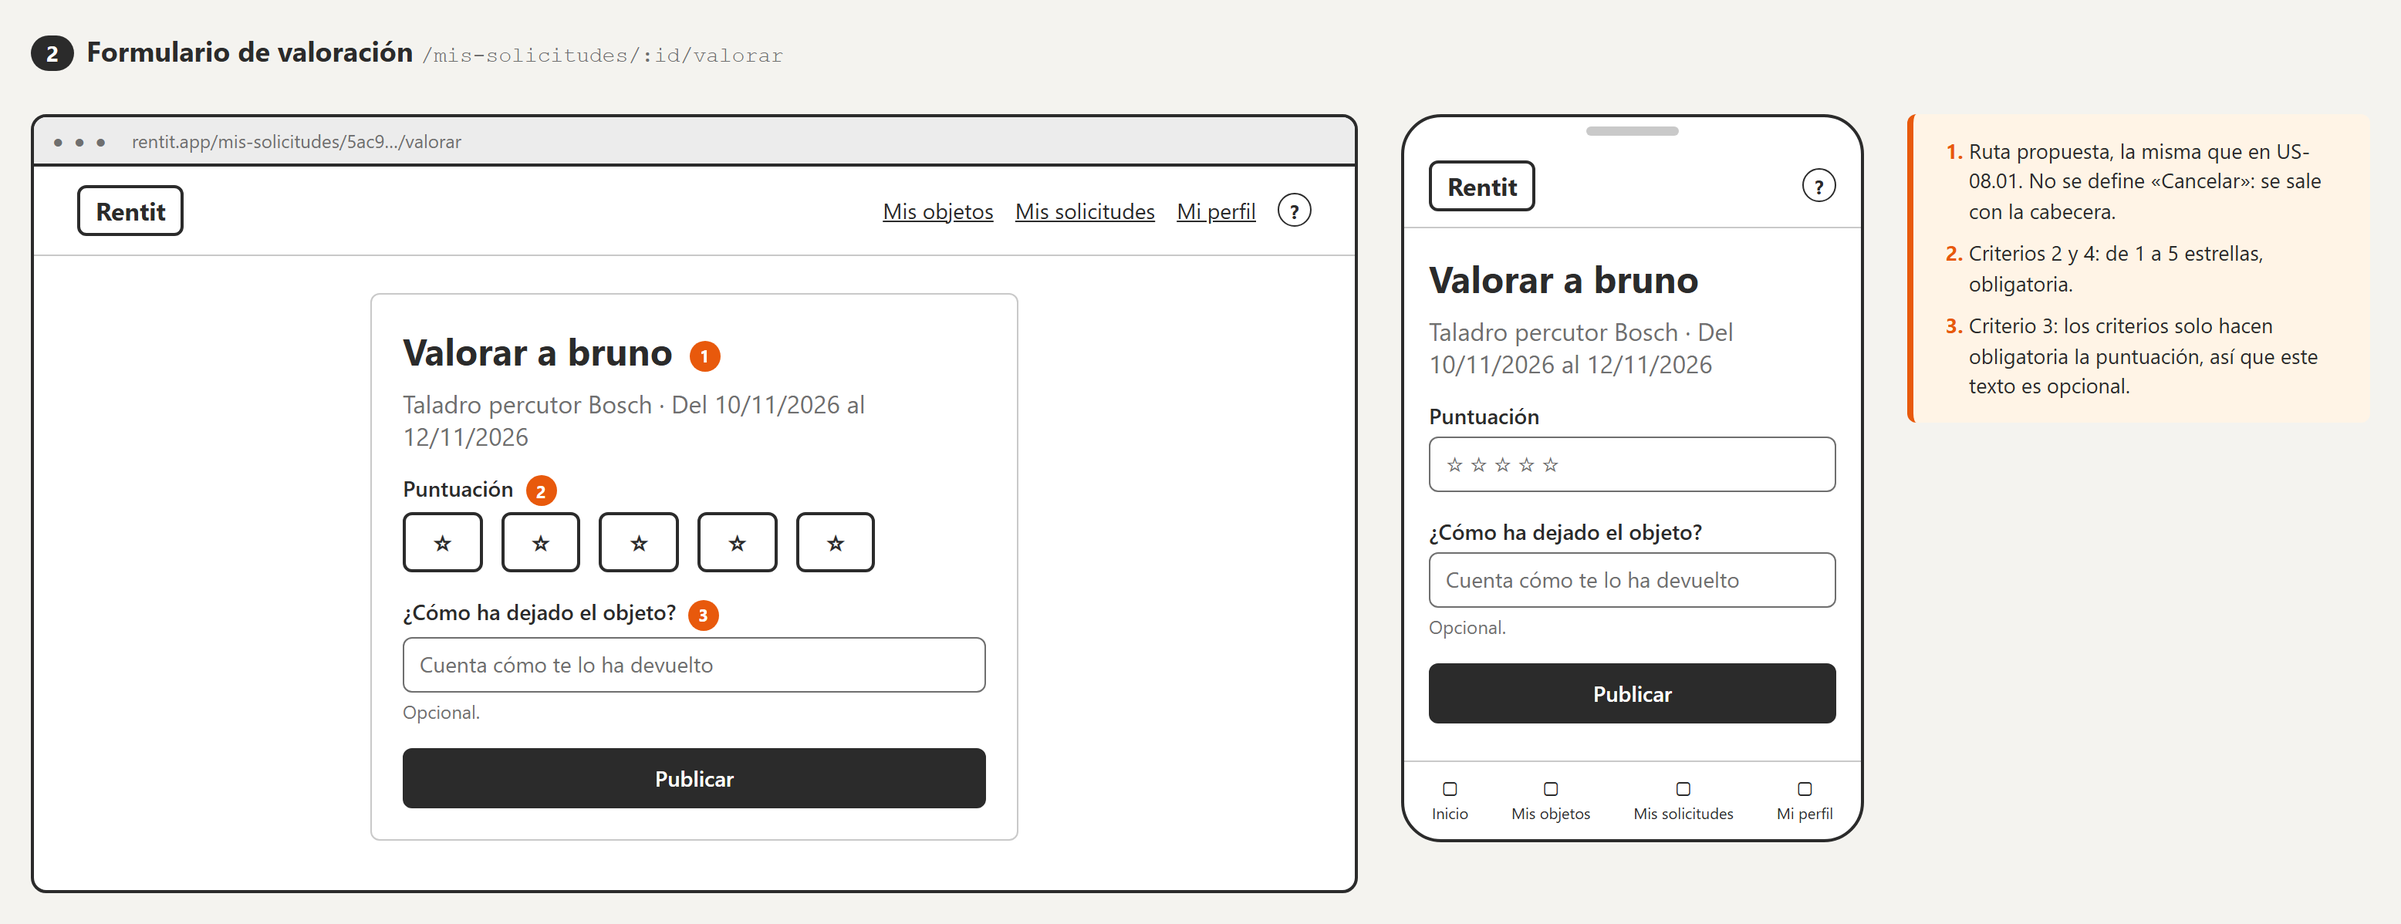
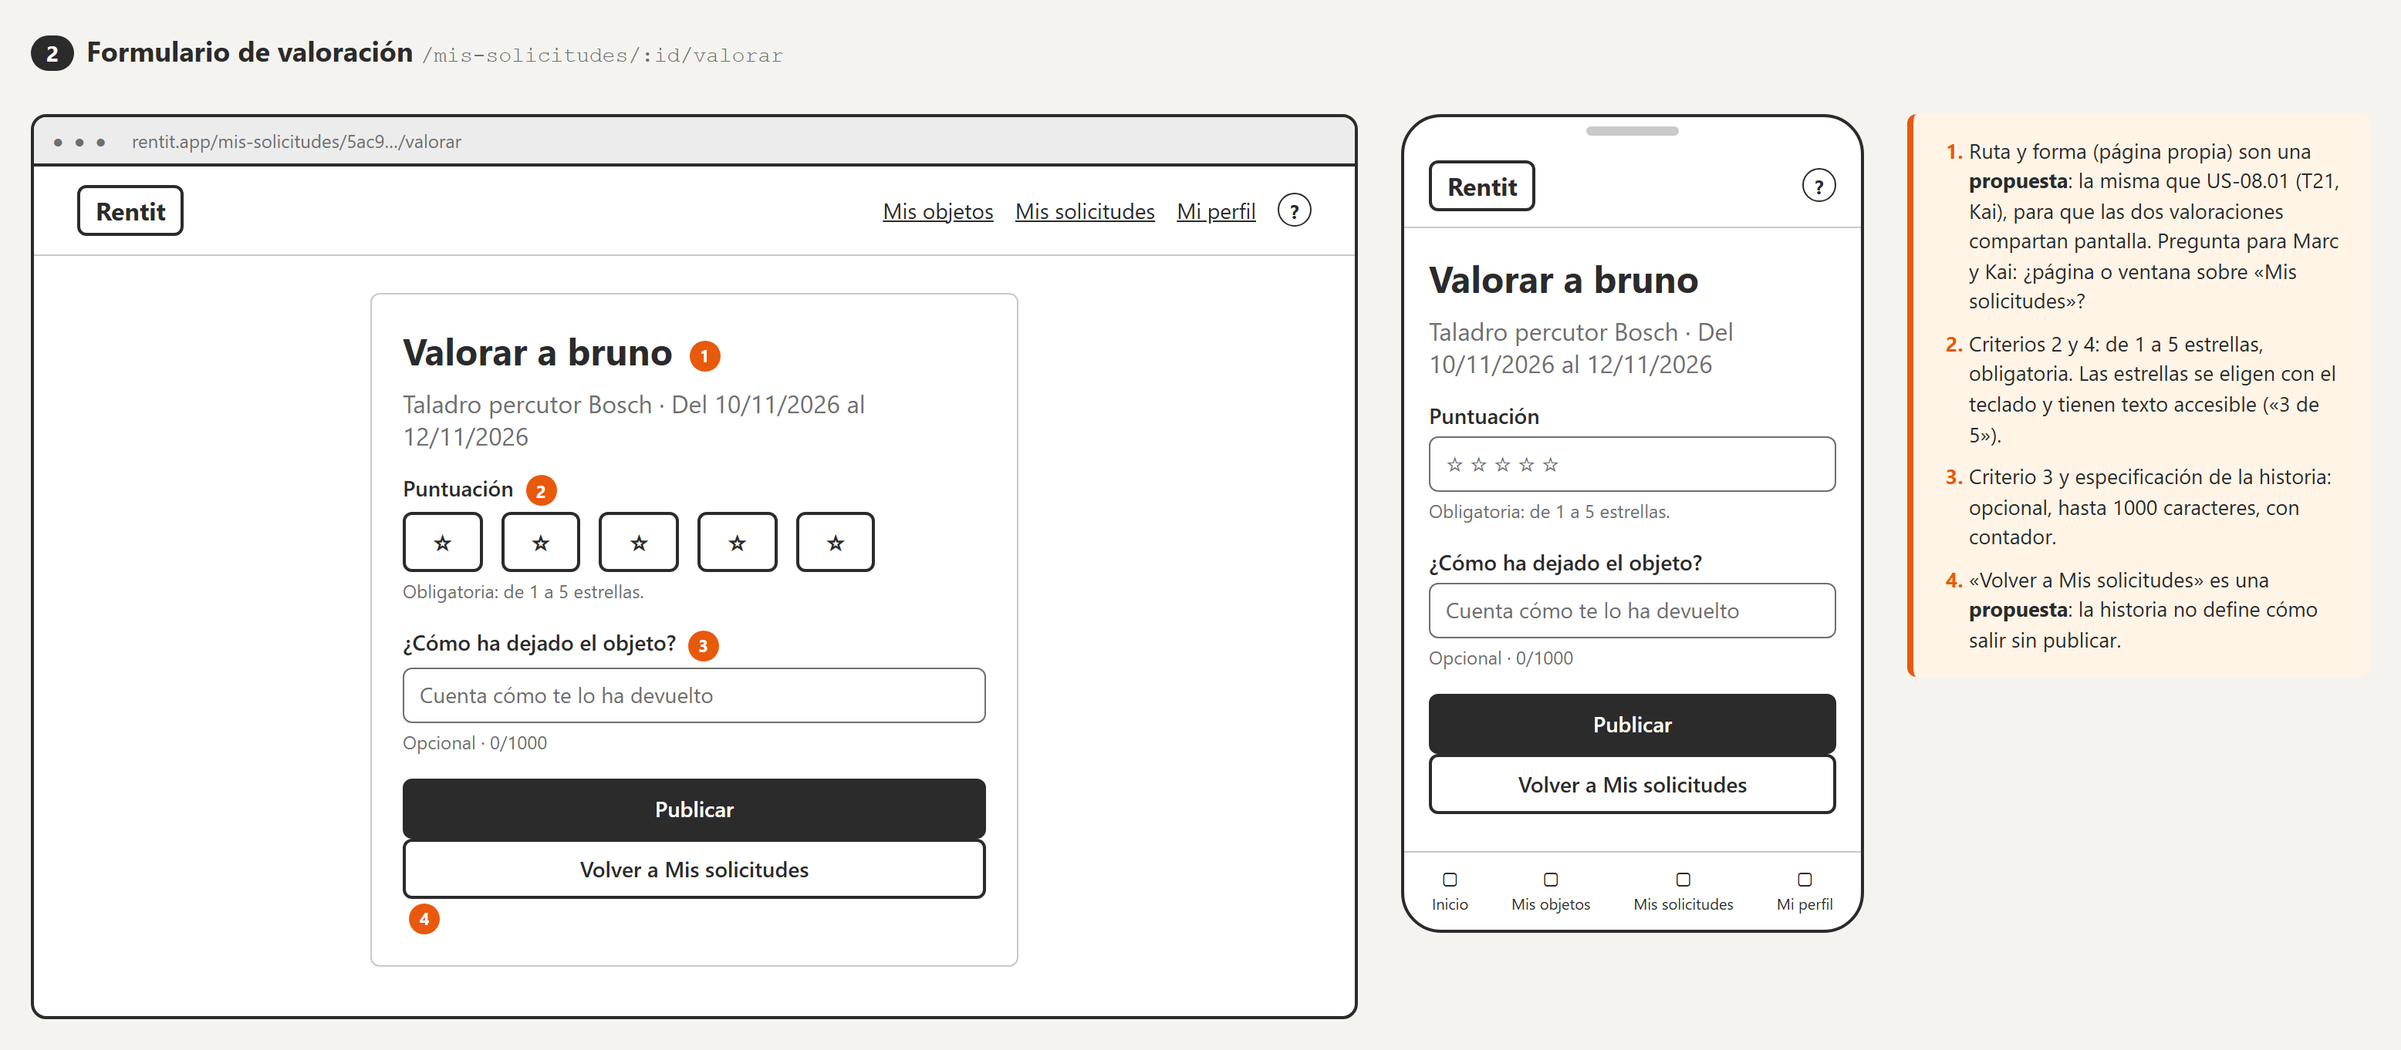
docs(wireframes): US-08.02 valorar al inquilino desde un alquiler finalizado (#299)

diff --git a/docs/wireframes/US-08.02-valorar-usuario/index.html b/docs/wireframes/US-08.02-valorar-usuario/index.html
@@ -13,10 +13,13 @@
         <strong>compartir mi experiencia con otros usuarios</strong>.
       </p>
       <p class="wf-meta">
-        Issue #75 · Flujo propuesto: se confirma en el Sprint Planning · Wireframe de baja fidelidad · Generado con
-        asistencia de IA (Claude) – pendiente de revisar por el equipo en el Sprint Planning
+        Issue #75 · Tarea T24 #299 (frontend, Marc) · Flujo acordado en el Sprint Planning (10/11) y en la reunión del
+        equipo del 11/11 · Wireframe de baja fidelidad
       </p>
-      <p class="wf-meta">Actualizado con asistencia de IA (Claude) tras el rediseño (#258), pendiente de revisar por el equipo</p>
+      <p class="wf-meta">
+        Generado con asistencia de IA (Claude), 15/11/2026 – <strong>pendiente de revisión por Marc</strong>. El contrato
+        del backend (T23 #298, Francesc) aún no existe: lo que lo toca está marcado como pregunta.
+      </p>
     </header>
 
     <section class="wf-pantalla" data-captura="1-entrada">
@@ -42,36 +45,65 @@
                 </div>
               </div>
               <div>
-                <h4>Recibidas <span class="wf-chip">1</span></h4>
+                <h4>Recibidas <span class="wf-chip">2</span></h4>
                 <div class="wf-tarjeta">
                   <div class="wf-fila"><strong>Taladro percutor Bosch</strong><span class="wf-chip">Finalizada</span><span>▴</span></div>
                   <p class="wf-ayuda">10–12 nov. 2026</p>
-                  <p class="wf-texto"></p>
                   <div class="wf-rejilla">
                     <p class="wf-texto">Objeto: <span class="wf-enlace">Taladro percutor Bosch</span></p>
                     <p class="wf-texto">Fechas: Del 10 de noviembre de 2026 al 12 de noviembre de 2026</p>
-                    <p class="wf-texto">Importe total: 18,00 €</p>
+                    <p class="wf-texto">Importe total: 18,00 € <span class="wf-marca">2</span></p>
                     <p class="wf-texto">Estado: Finalizada</p>
-                    <p class="wf-texto">Solicitada por: bruno</p>
+                    <p class="wf-texto">Solicitada por: <span class="wf-enlace">bruno</span></p>
                     <p class="wf-texto">Enviada el 4 de noviembre de 2026</p>
                   </div>
-                  <p class="wf-texto"></p>
-                  <span class="wf-boton">Valorar</span><span class="wf-marca">1</span>
+                  <span class="wf-boton">Valorar a bruno</span><span class="wf-marca">1</span>
+                </div>
+                <div class="wf-tarjeta">
+                  <div class="wf-fila"><strong>Escalera de aluminio</strong><span class="wf-chip">Finalizada</span><span>▴</span></div>
+                  <p class="wf-ayuda">2–3 nov. 2026</p>
+                  <p class="wf-texto">Tu valoración: ★★★★☆ · «Bien, aunque llegó un poco tarde.» <span class="wf-marca">3</span></p>
                 </div>
               </div>
             </div>
           </div>
         </div>
+        <div class="wf-movil">
+          <nav class="wf-nav"><span class="wf-logo">Rentit</span><span class="wf-icono-ayuda" title="Ayuda">?</span></nav>
+          <div class="wf-contenido">
+            <h3 class="wf-h1">Mis solicitudes</h3>
+            <h4>Recibidas <span class="wf-chip">2</span></h4>
+            <div class="wf-tarjeta">
+              <div class="wf-fila"><strong>Taladro percutor Bosch</strong><span class="wf-chip">Finalizada</span></div>
+              <p class="wf-ayuda">10–12 nov. 2026 · bruno</p>
+              <span class="wf-boton wf-ancho">Valorar a bruno</span>
+            </div>
+            <div class="wf-tarjeta">
+              <div class="wf-fila"><strong>Escalera de aluminio</strong><span class="wf-chip">Finalizada</span></div>
+              <p class="wf-texto">Tu valoración: ★★★★☆</p>
+            </div>
+          </div>
+          <div class="wf-barra-inferior"><span>Inicio</span><span>Mis objetos</span><span>Mis solicitudes</span><span>Mi perfil</span></div>
+        </div>
       </div>
       <ol class="wf-notas">
         <li>
-          Criterio 1: solo en un alquiler «Finalizada» de «Recibidas». Criterio 7: en un alquiler ya valorado no aparece
-          «Valorar», y la API lo rechaza.
+          Criterio 1: «Valorar» solo aparece en un alquiler «Finalizada» de «Recibidas». El alquiler llega a «Finalizada»
+          cuando el arrendatario marca «He devuelto el objeto» (US-05.02, decisión 6). El texto «Valorar a bruno» es una
+          <strong>propuesta</strong>; la historia dice «Valorar».
+        </li>
+        <li>
+          Cuando US-05.01 esté en <code>develop</code>, el importe sale como «Alquiler · Entrega · Total» (T7). No cambia
+          nada de esta historia.
+        </li>
+        <li>
+          Criterio 7: un alquiler que ya has valorado no muestra «Valorar», sino tu valoración. ¿Qué campo de la reserva
+          dice si ya está valorado y con qué puntuación? Pregunta para T23.
         </li>
       </ol>
     </section>
 
-    <p class="wf-flecha">Clic en «Valorar»</p>
+    <p class="wf-flecha">Clic en «Valorar a bruno»</p>
 
     <section class="wf-pantalla" data-captura="2-formulario">
       <h2><span class="wf-paso">2</span>Formulario de valoración <code>/mis-solicitudes/:id/valorar</code></h2>
@@ -97,13 +129,15 @@
                   <span class="wf-boton wf-secundario">☆</span>
                   <span class="wf-boton wf-secundario">☆</span>
                 </div>
+                <p class="wf-ayuda">Obligatoria: de 1 a 5 estrellas.</p>
               </div>
               <div class="wf-campo">
                 <label>¿Cómo ha dejado el objeto? <span class="wf-marca">3</span></label>
                 <div class="wf-input">Cuenta cómo te lo ha devuelto</div>
-                <p class="wf-ayuda">Opcional.</p>
+                <p class="wf-ayuda">Opcional · 0/1000</p>
               </div>
               <span class="wf-boton wf-ancho">Publicar</span>
+              <span class="wf-boton wf-secundario wf-ancho">Volver a Mis solicitudes</span><span class="wf-marca">4</span>
             </div>
           </div>
         </div>
@@ -115,21 +149,27 @@
             <div class="wf-campo">
               <label>Puntuación</label>
               <div class="wf-input">☆ ☆ ☆ ☆ ☆</div>
+              <p class="wf-ayuda">Obligatoria: de 1 a 5 estrellas.</p>
             </div>
             <div class="wf-campo">
               <label>¿Cómo ha dejado el objeto?</label>
               <div class="wf-input">Cuenta cómo te lo ha devuelto</div>
-              <p class="wf-ayuda">Opcional.</p>
+              <p class="wf-ayuda">Opcional · 0/1000</p>
             </div>
             <span class="wf-boton wf-ancho">Publicar</span>
+            <span class="wf-boton wf-secundario wf-ancho">Volver a Mis solicitudes</span>
           </div>
           <div class="wf-barra-inferior"><span>Inicio</span><span>Mis objetos</span><span>Mis solicitudes</span><span>Mi perfil</span></div>
         </div>
       </div>
       <ol class="wf-notas">
-        <li>Ruta propuesta, la misma que en US-08.01. No se define «Cancelar»: se sale con la cabecera.</li>
-        <li>Criterios 2 y 4: de 1 a 5 estrellas, obligatoria.</li>
-        <li>Criterio 3: los criterios solo hacen obligatoria la puntuación, así que este texto es opcional.</li>
+        <li>
+          Ruta y forma (página propia) son una <strong>propuesta</strong>: la misma que US-08.01 (T21, Kai), para que las
+          dos valoraciones compartan pantalla. Pregunta para Marc y Kai: ¿página o ventana sobre «Mis solicitudes»?
+        </li>
+        <li>Criterios 2 y 4: de 1 a 5 estrellas, obligatoria. Las estrellas se eligen con el teclado y tienen texto accesible («3 de 5»).</li>
+        <li>Criterio 3 y especificación de la historia: opcional, hasta 1000 caracteres, con contador.</li>
+        <li>«Volver a Mis solicitudes» es una <strong>propuesta</strong>: la historia no define cómo salir sin publicar.</li>
       </ol>
     </section>
 
@@ -163,16 +203,21 @@
               </div>
               <div class="wf-campo">
                 <label>¿Cómo ha dejado el objeto?</label>
-                <div class="wf-input">Cuenta cómo te lo ha devuelto</div>
-                <p class="wf-ayuda">Opcional.</p>
+                <div class="wf-input">Lo devolvió limpio y a tiempo.</div>
+                <p class="wf-ayuda">Opcional · 30/1000</p>
               </div>
               <span class="wf-boton wf-ancho">Publicar</span>
+              <span class="wf-boton wf-secundario wf-ancho">Volver a Mis solicitudes</span>
             </div>
           </div>
         </div>
       </div>
       <ol class="wf-notas">
-        <li>Criterio 5: no se publica y se indica en este campo. El texto exacto es una propuesta.</li>
+        <li>
+          Criterio 5: no se publica, se indica en ese campo y el foco va a las estrellas. Lo escrito no se pierde. El texto
+          del error es una <strong>propuesta</strong>; si la API devuelve su propio texto (<code>field: "rating"</code>), se
+          usa el suyo.
+        </li>
       </ol>
     </section>
 
@@ -202,26 +247,62 @@
                   <span class="wf-boton">★</span>
                   <span class="wf-boton">★</span>
                 </div>
+                <p class="wf-ayuda">5 de 5 estrellas.</p>
               </div>
               <div class="wf-campo">
                 <label>¿Cómo ha dejado el objeto?</label>
                 <div class="wf-input">Lo devolvió limpio y a tiempo.</div>
-                <p class="wf-ayuda">Opcional.</p>
+                <p class="wf-ayuda">Opcional · 30/1000</p>
               </div>
               <span class="wf-boton wf-ancho">Publicar</span><span class="wf-marca">1</span>
+              <span class="wf-boton wf-secundario wf-ancho">Volver a Mis solicitudes</span>
             </div>
           </div>
         </div>
       </div>
       <ol class="wf-notas">
-        <li>Criterio 6: la valoración queda asociada al alquiler y al usuario que la ha creado.</li>
+        <li>
+          Criterio 6: la valoración queda asociada al alquiler y al usuario que la ha creado. Mientras se envía, el botón
+          dice «Publicando…» y no se puede pulsar dos veces.
+        </li>
       </ol>
     </section>
 
-    <p class="wf-flecha">Clic en «Publicar»</p>
+    <p class="wf-flecha">Si el alquiler ya se había valorado (por ejemplo, desde otra pestaña)</p>
 
-    <section class="wf-pantalla" data-captura="5-destino-valorado">
-      <h2><span class="wf-paso">5</span>Destino: Mis solicitudes con la valoración <code>/mis-solicitudes</code></h2>
+    <section class="wf-pantalla" data-captura="5-ya-valorado">
+      <h2><span class="wf-paso">5</span>Error: alquiler ya valorado <code>/mis-solicitudes/:id/valorar</code></h2>
+      <div class="wf-dispositivos">
+        <div class="wf-escritorio" data-url="rentit.app/mis-solicitudes/5ac9…/valorar">
+          <nav class="wf-nav">
+            <span class="wf-logo">Rentit</span>
+            <span class="wf-enlaces">
+              <span class="wf-enlace">Mis objetos</span>
+              <span class="wf-enlace">Mis solicitudes</span>
+              <span class="wf-enlace">Mi perfil</span><span class="wf-icono-ayuda" title="Ayuda">?</span></span>
+          </nav>
+          <div class="wf-contenido">
+            <div class="wf-centrado wf-tarjeta">
+              <h3 class="wf-h1">Valorar a bruno</h3>
+              <p class="wf-aviso">Ya has valorado este alquiler. <span class="wf-marca">1</span></p>
+              <span class="wf-boton wf-ancho">Volver a Mis solicitudes</span>
+            </div>
+          </div>
+        </div>
+      </div>
+      <ol class="wf-notas">
+        <li>
+          Criterio 7: en el flujo normal no se llega aquí, porque el botón «Valorar» ya no aparece (pantalla 1). Si se
+          entra en la ruta a mano o desde otra pestaña, la API rechaza la segunda valoración. Texto
+          <strong>propuesto</strong>; si la API devuelve el suyo, se usa el suyo. Pregunta para T23: ¿409?
+        </li>
+      </ol>
+    </section>
+
+    <p class="wf-flecha">Clic en «Publicar» (pantalla 4)</p>
+
+    <section class="wf-pantalla" data-captura="6-destino-valorado">
+      <h2><span class="wf-paso">6</span>Destino: Mis solicitudes con la valoración <code>/mis-solicitudes</code></h2>
       <div class="wf-dispositivos">
         <div class="wf-escritorio" data-url="rentit.app/mis-solicitudes">
           <nav class="wf-nav">
@@ -232,8 +313,8 @@
               <span class="wf-enlace">Mi perfil</span><span class="wf-icono-ayuda" title="Ayuda">?</span></span>
           </nav>
           <div class="wf-contenido">
+            <p class="wf-aviso">Valoración publicada. <span class="wf-marca">1</span></p>
             <h3 class="wf-h1">Mis solicitudes</h3>
-            <p class="wf-texto">Sigue las que has enviado y responde a las que has recibido.</p>
             <div class="wf-columnas wf-iguales">
               <div>
                 <h4>Enviadas <span class="wf-chip">1</span></h4>
@@ -243,30 +324,93 @@
                 </div>
               </div>
               <div>
-                <h4>Recibidas <span class="wf-chip">1</span></h4>
+                <h4>Recibidas <span class="wf-chip">2</span></h4>
                 <div class="wf-tarjeta">
                   <div class="wf-fila"><strong>Taladro percutor Bosch</strong><span class="wf-chip">Finalizada</span><span>▴</span></div>
                   <p class="wf-ayuda">10–12 nov. 2026</p>
-                  <p class="wf-texto"></p>
                   <div class="wf-rejilla">
                     <p class="wf-texto">Objeto: <span class="wf-enlace">Taladro percutor Bosch</span></p>
                     <p class="wf-texto">Fechas: Del 10 de noviembre de 2026 al 12 de noviembre de 2026</p>
-                    <p class="wf-texto">Importe total: 18,00 €</p>
                     <p class="wf-texto">Estado: Finalizada</p>
-                    <p class="wf-texto">Solicitada por: bruno<span class="wf-marca">1</span></p>
-                    <p class="wf-texto">Enviada el 4 de noviembre de 2026</p>
+                    <p class="wf-texto">Solicitada por: <span class="wf-enlace">bruno</span><span class="wf-marca">2</span></p>
                   </div>
-                  <p class="wf-texto"></p>
-                  <p class="wf-texto">Tu valoración: ★★★★★ · «Lo devolvió limpio y a tiempo.» <span class="wf-marca">2</span></p>
+                  <p class="wf-texto">Tu valoración: ★★★★★ · «Lo devolvió limpio y a tiempo.» <span class="wf-marca">3</span></p>
+                </div>
+                <div class="wf-tarjeta">
+                  <div class="wf-fila"><strong>Escalera de aluminio</strong><span class="wf-chip">Finalizada</span><span>▾</span></div>
+                  <p class="wf-ayuda">2–3 nov. 2026</p>
                 </div>
               </div>
             </div>
           </div>
         </div>
+        <div class="wf-movil">
+          <nav class="wf-nav"><span class="wf-logo">Rentit</span><span class="wf-icono-ayuda" title="Ayuda">?</span></nav>
+          <div class="wf-contenido">
+            <p class="wf-aviso">Valoración publicada.</p>
+            <h3 class="wf-h1">Mis solicitudes</h3>
+            <h4>Recibidas <span class="wf-chip">2</span></h4>
+            <div class="wf-tarjeta">
+              <div class="wf-fila"><strong>Taladro percutor Bosch</strong><span class="wf-chip">Finalizada</span></div>
+              <p class="wf-texto">Tu valoración: ★★★★★</p>
+            </div>
+          </div>
+          <div class="wf-barra-inferior"><span>Inicio</span><span>Mis objetos</span><span>Mis solicitudes</span><span>Mi perfil</span></div>
+        </div>
       </div>
       <ol class="wf-notas">
-        <li>La media se actualiza en el perfil del usuario valorado (US-01.4).</li>
+        <li>Mensaje de éxito: <strong>propuesta</strong> (la historia no lo da). Se anuncia a los lectores de pantalla.</li>
+        <li>El nombre lleva al perfil público de bruno (US-01.4), donde se ve la media actualizada (pantalla 7).</li>
         <li>Criterio 7: el alquiler muestra la valoración en lugar de «Valorar», así que no se puede publicar otra.</li>
+      </ol>
+    </section>
+
+    <p class="wf-flecha">Clic en «bruno»</p>
+
+    <section class="wf-pantalla" data-captura="7-perfil-media">
+      <h2><span class="wf-paso">7</span>Destino: la media en el perfil público del inquilino <code>/usuarios/:id</code></h2>
+      <div class="wf-dispositivos">
+        <div class="wf-escritorio" data-url="rentit.app/usuarios/b7e1…">
+          <nav class="wf-nav">
+            <span class="wf-logo">Rentit</span>
+            <span class="wf-enlaces">
+              <span class="wf-enlace">Mis objetos</span>
+              <span class="wf-enlace">Mis solicitudes</span>
+              <span class="wf-enlace">Mi perfil</span><span class="wf-icono-ayuda" title="Ayuda">?</span></span>
+          </nav>
+          <div class="wf-contenido">
+            <div class="wf-tarjeta">
+              <div class="wf-fila"><span class="wf-imagen">Foto</span><h3 class="wf-h1">bruno</h3></div>
+              <p class="wf-texto">Miembro desde octubre de 2026</p>
+              <p class="wf-texto">★ 4,5 · 2 valoraciones <span class="wf-marca">1</span></p>
+              <p class="wf-texto">Me gusta el bricolaje y cuidar lo que me prestan.</p>
+            </div>
+          </div>
+        </div>
+      </div>
+      <ol class="wf-notas">
+        <li>
+          La media se actualiza en el perfil del usuario valorado (US-01.4 la muestra con <code>rating {average,
+          count}</code>, que hoy es un valor fijo hasta T23). US-01.4 aún no está en <code>develop</code>. Pregunta para
+          T23: ¿la media junta las valoraciones como arrendatario (US-08.01) y como inquilino (US-08.02), o van aparte?
+        </li>
+      </ol>
+    </section>
+
+    <section class="wf-pantalla">
+      <h2>Preguntas abiertas</h2>
+      <p class="wf-texto"><strong>Para Marc:</strong></p>
+      <ol class="wf-notas">
+        <li>¿Página propia (<code>/mis-solicitudes/:id/valorar</code>, como US-08.01) o ventana sobre «Mis solicitudes»?</li>
+        <li>Textos propuestos: «Valorar a bruno», «Volver a Mis solicitudes», «Elige una puntuación de 1 a 5 estrellas.», «Ya has valorado este alquiler.» y «Valoración publicada.».</li>
+        <li>¿El inquilino ve en «Enviadas» la valoración que le ha puesto el propietario, o solo la media en su perfil?</li>
+      </ol>
+      <p class="wf-texto"><strong>Para Francesc (T23 #298), antes de programar:</strong></p>
+      <ol class="wf-notas">
+        <li>Ruta y cuerpo: ¿<code>POST /api/reservas/:id/valoraciones</code> con <code>{ rating, comment }</code>? ¿El mismo endpoint que T20 (US-08.01), deduciendo por la sesión si valora el arrendatario o el propietario?</li>
+        <li>Errores y códigos: sin puntuación o fuera de 1–5 (400, <code>field: "rating"</code>), comentario de más de 1000 (400), no eres el propietario (403 o 404), el alquiler no está «Finalizada» (409) y ya valorado (409). ¿Textos exactos?</li>
+        <li>¿Cómo sabe «Mis solicitudes» si ya has valorado un alquiler y con qué puntuación? Por ejemplo, un campo <code>myReview</code> en cada reserva.</li>
+        <li>La media de <code>GET /api/usuarios/:id</code>: ¿junta las valoraciones de US-08.01 y US-08.02?</li>
       </ol>
     </section>
   </body>
